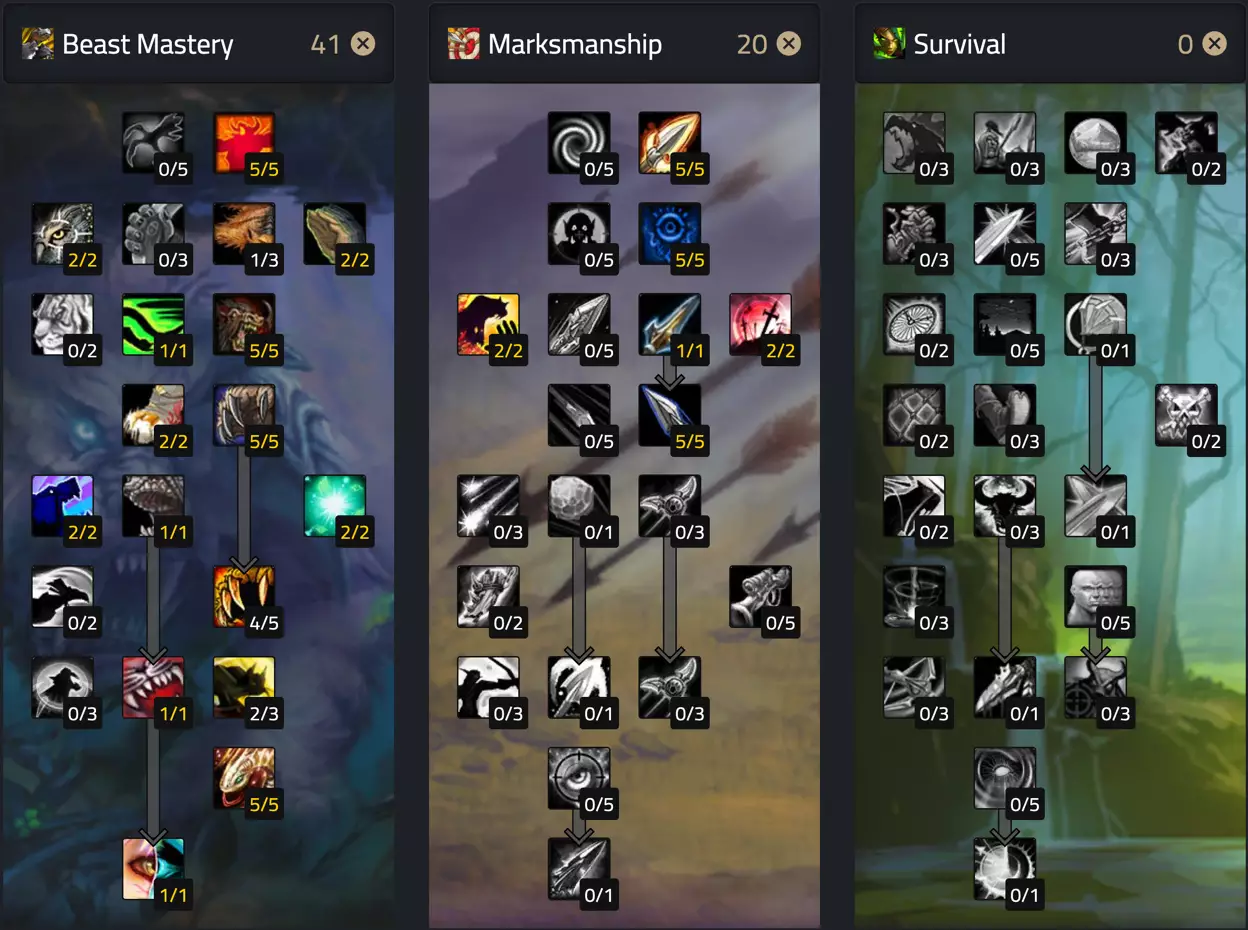
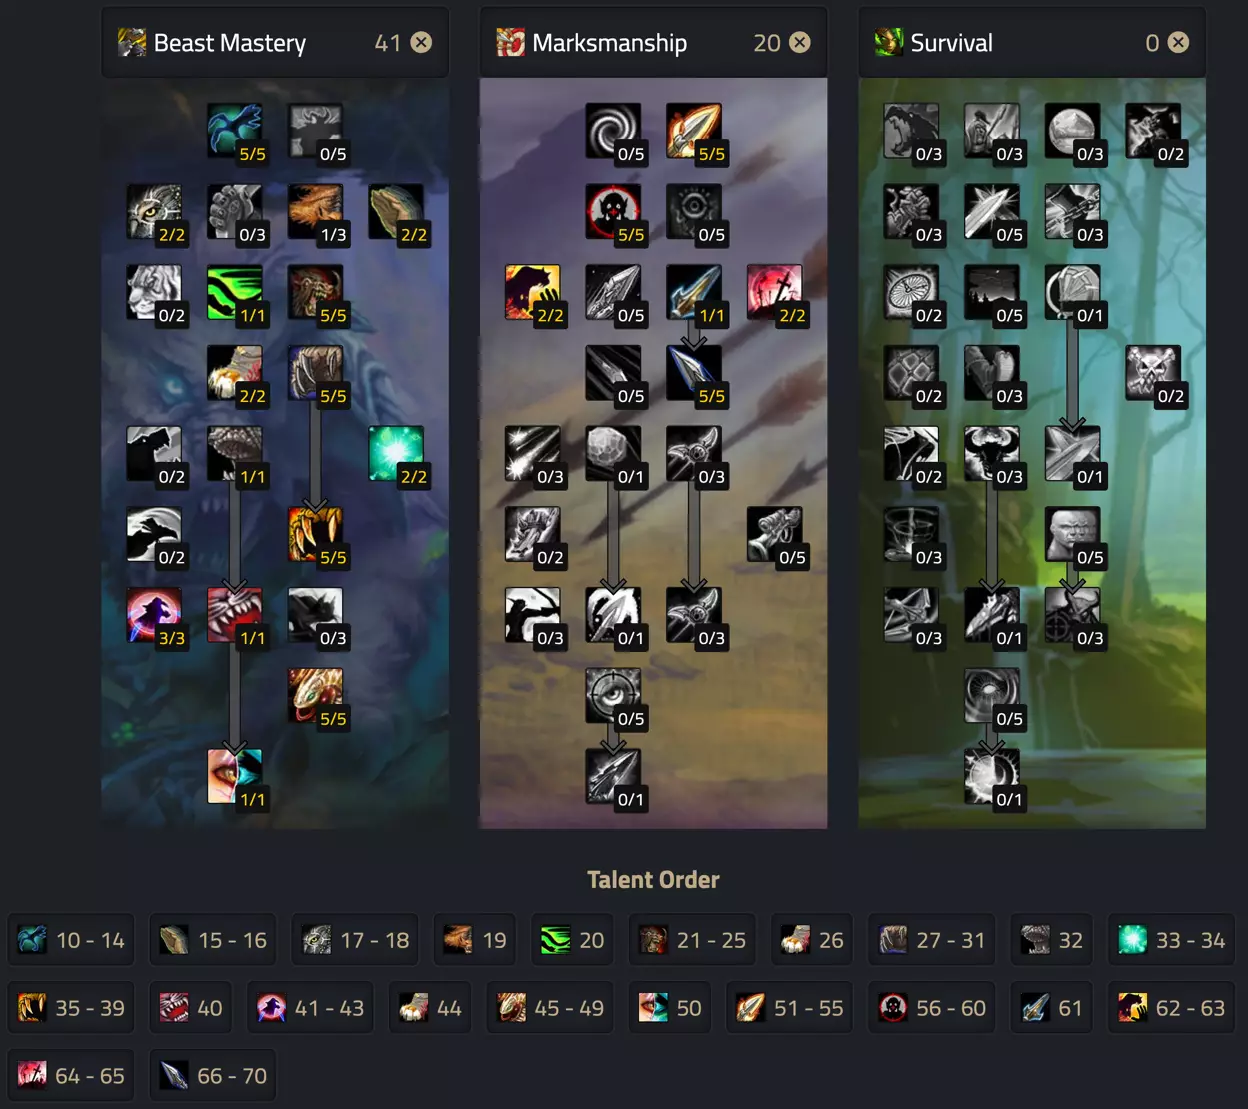
updated hunter link and image

diff --git a/index.html b/index.html
@@ -179,7 +179,7 @@
   <!-- Hunter -->
   <section id="hunter">
     <h2>
-      <a href="https://www.warcrafttavern.com/tbc/tools/talent-calculator/hunter#?t=A22222446779aaaaaddeeeeehggjjmmmmpqquuuuuxB2222266666a88bbeeeee" target="_blank" rel="noopener noreferrer">
+      <a href="https://www.warcrafttavern.com/tbc/tools/talent-calculator/hunter/#?t=A11111774469aaaaadeeeeehjjmmmmmpoooduuuuuxB2222255555a88bbeeeee" target="_blank" rel="noopener noreferrer">
         Beast Master Hunter Build
       </a>
     </h2>
